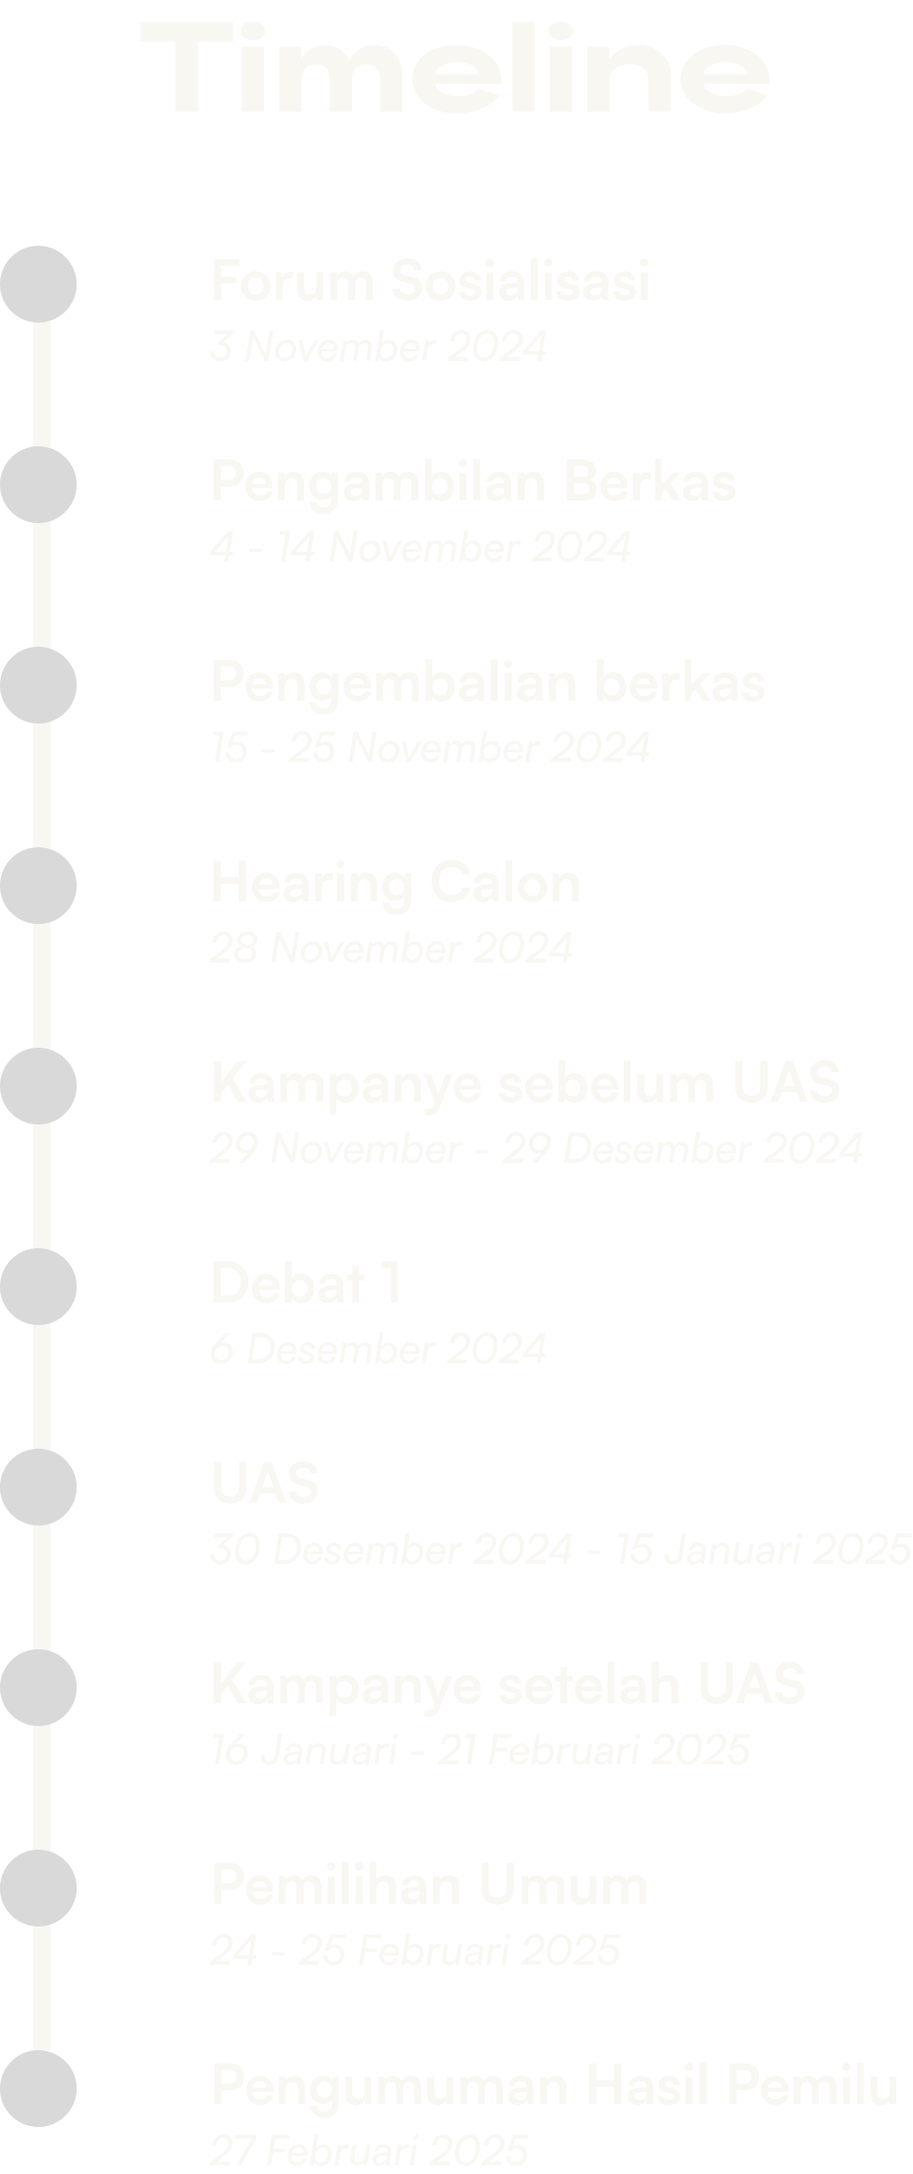
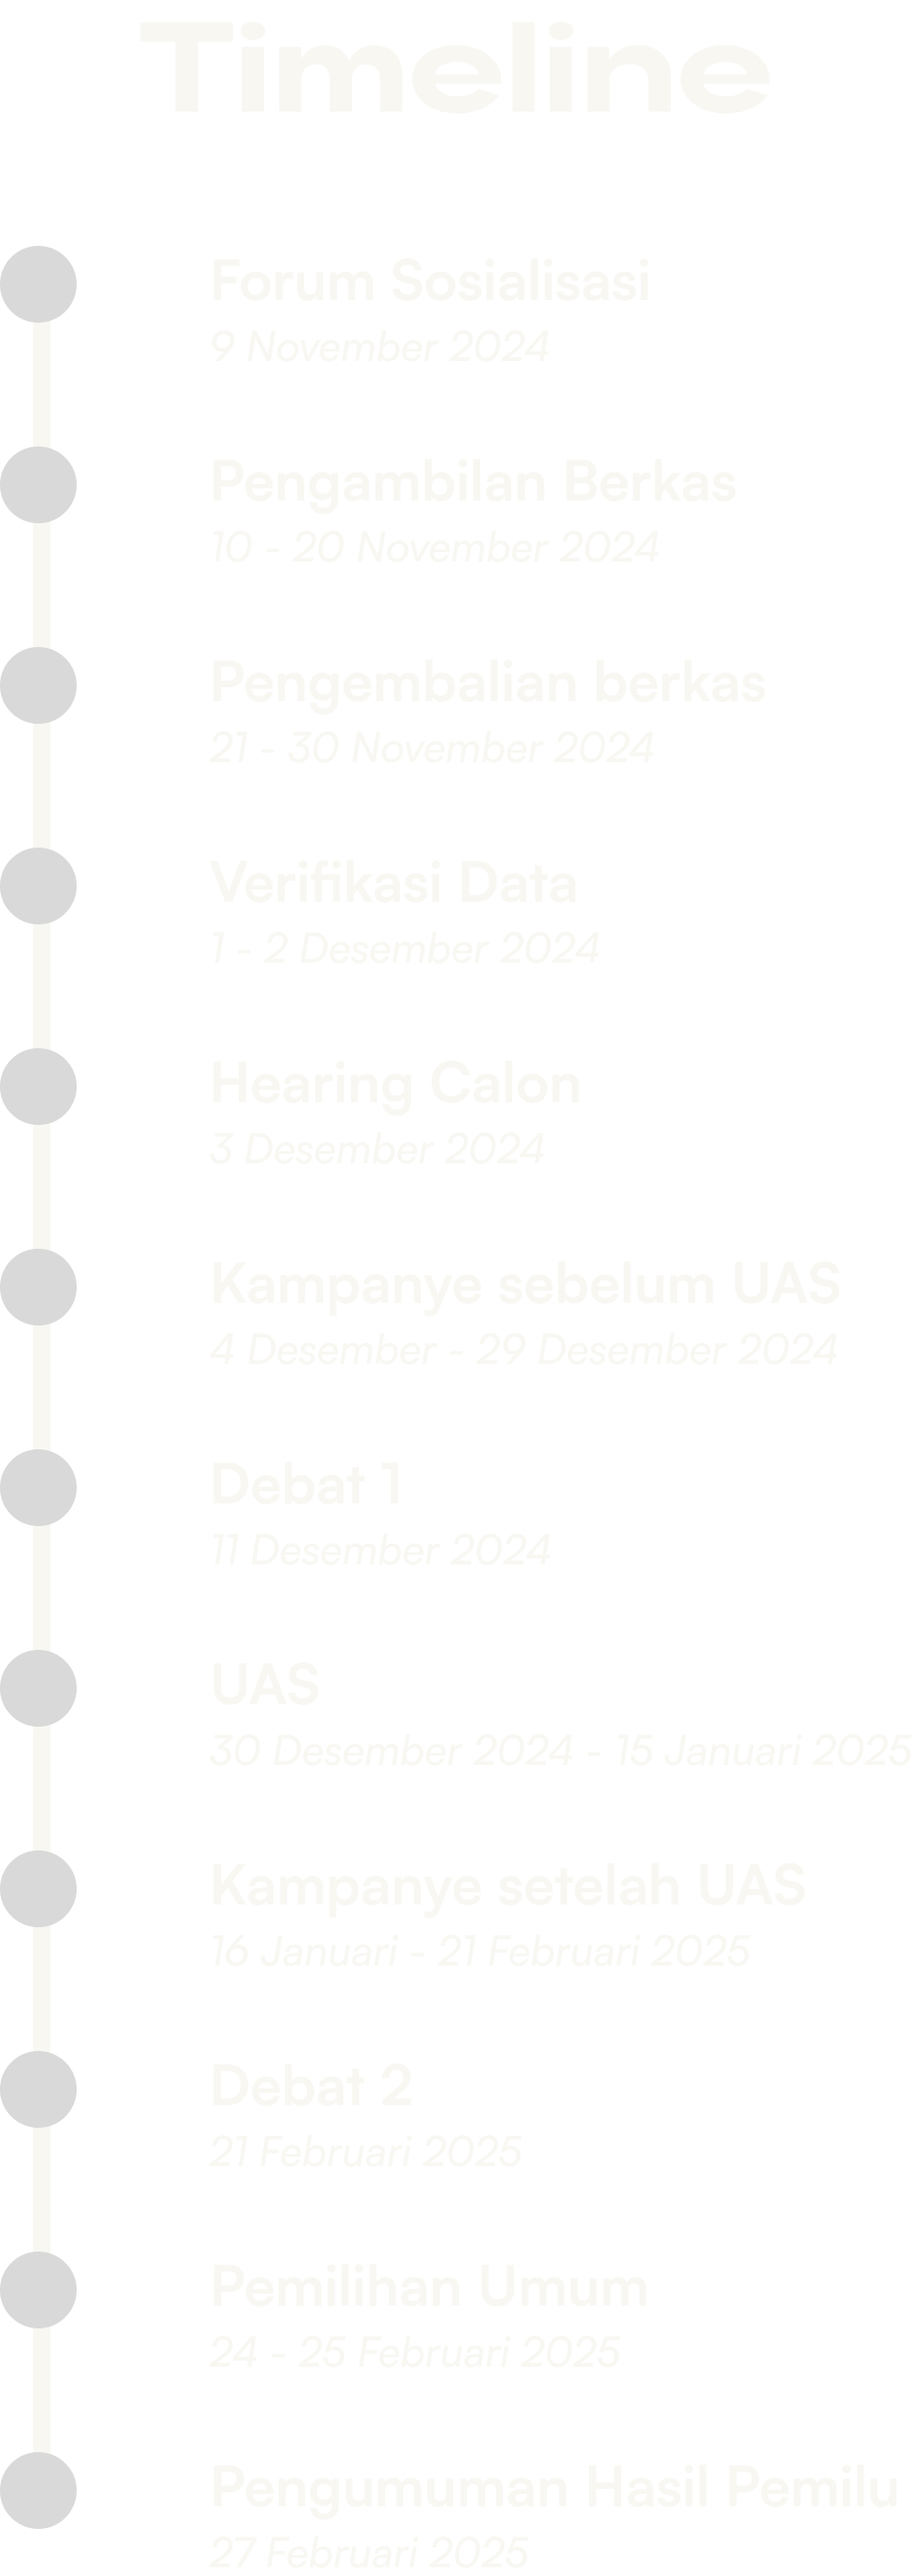
chore: update timeline and move footer to ./components

Changed region(s): [[0.0, 0.5557, 0.0916, 0.988], [0.0, 0.0926, 0.0916, 0.4631]]

diff --git a/src/app/layout.tsx b/src/app/layout.tsx
@@ -4,7 +4,7 @@ import { type Metadata } from "next";
 import { Playfair_Display } from "next/font/google";
 import { TRPCReactProvider } from "~/trpc/react";
 import localFont from "next/font/local";
-import Footer from "./footer";
+import Footer from "../components/footer";
 
 const playfair = Playfair_Display({
   subsets: ["latin"],
